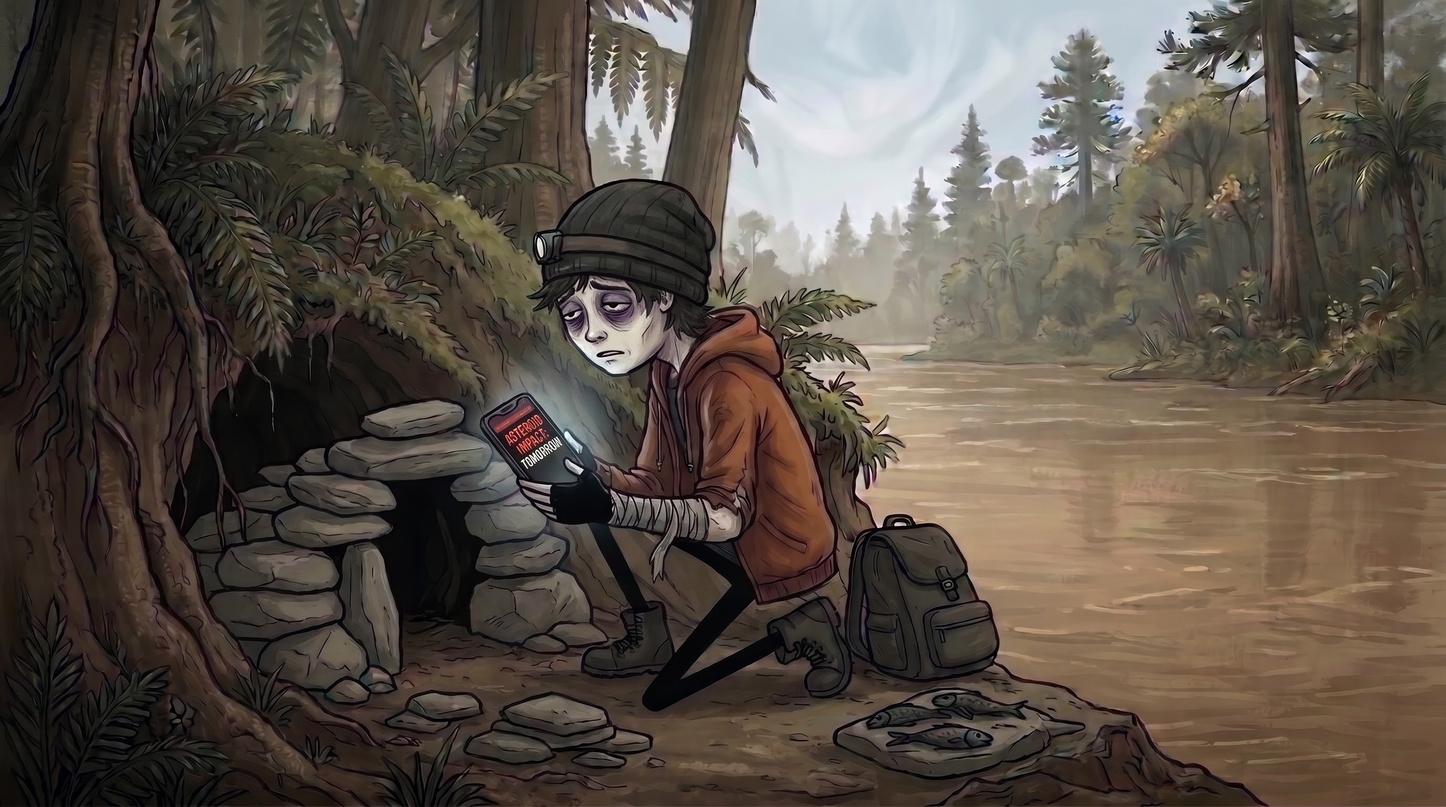
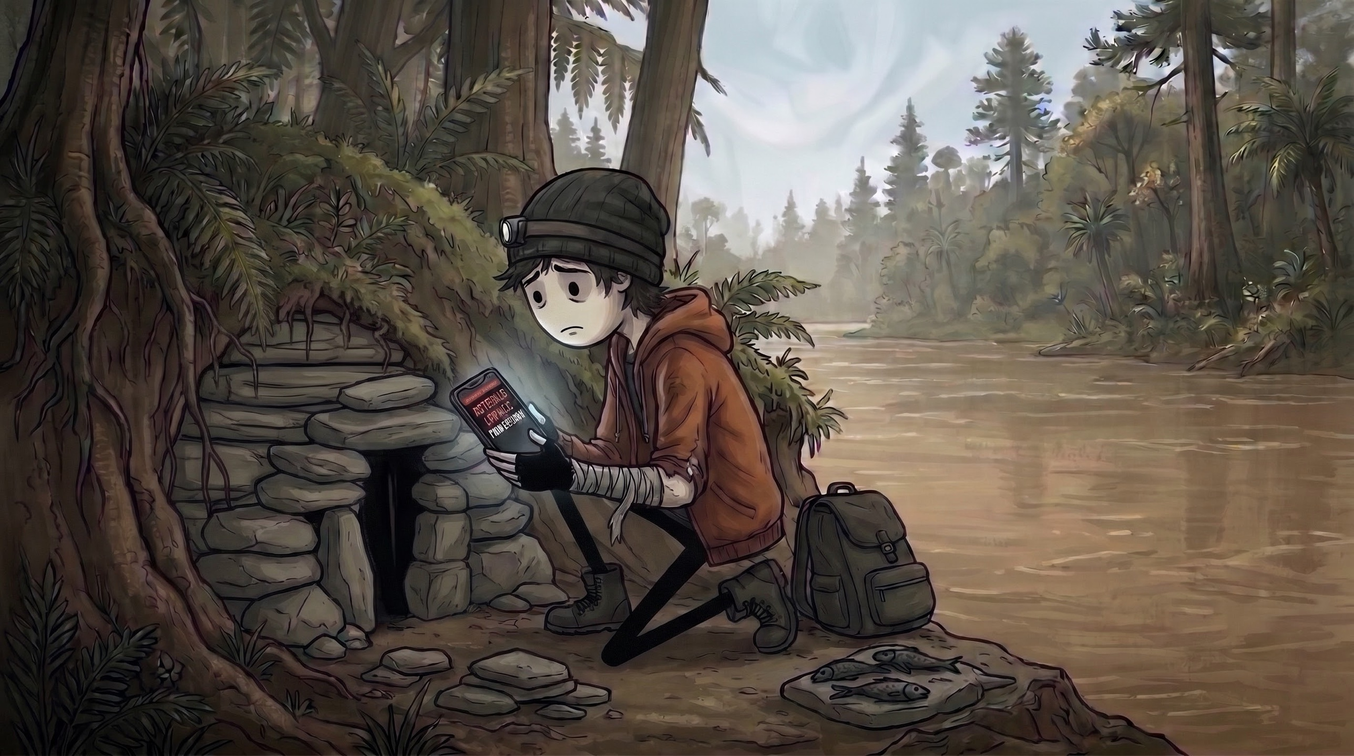
Dino long: all images complete (D9b fixed, D9d, light clip kept)
Claude-Session: https://claude.ai/code/session_01NtES8fcQpSP9FW8DWb2y14

diff --git a/CHANNEL.md b/CHANNEL.md
@@ -27,7 +27,7 @@
 - **رفرنسهای ثابت:** برگهی شخصیت `refs/C1-character-sheet-hair.jpg` · فندق `refs/R1-fandogh-sheet.jpg` · تیرکس با زخم سمت چپ پوزه `refs/R2-trex-scar.jpg` · شکارچی کوچک تا زانو `refs/R3-raptor-v2-scale.jpg` (v1 بزرگ بود، رد شد). عکس سبک روز = شات ۲۴ (D2a)، شب = شات ۱ (H1). · برگهی مکان لانه `refs/R4-burrow-sheet.jpg`
 - **قوانین پیوستگی:** لانه در دیوارهی رسی کنار همان رود گلآلود روز ۳ (D5b)، بالای خط سیل (D5c). روز ۶-۸ ورودی = سوراخ گرد خاکی به پهنای شانه؛ از روز ۹ با سنگ تا یک شکاف باریک تنگ میشود. تونل = راهروی تنگ سینهخیز + اتاقک کوچک انتهایی برای نشستن. تیرکس هرگز وارد نمیشود؛ شکارچی فقط سر و گردنش از سوراخ میآید. حداکثر ۳ رفرنس در Flow.
 - **بخش ۱ کامل است** (۲۷ عکس + کلیپها). فقط پوتین شبح در H1 در تدوین پاک میشود.
-- **بخش ۲ در جریان:** روز ۶ و ۷ ساخته شده، D8a تأیید شد، R4 ساخته شد (قاب سنگیاش باید به شکاف باریک ویرایش شود). منتظر: بقیهی روز ۸ و D6d و روز ۹ تا آخر. اصلاح دماغ در D7a/D6a/رفرنس شکارچی برای آخر کار ماند.
+- **همهی عکسها کامل شد (۲۰۲۶-۱۱-۰۸).** قدم بعد فقط با تأیید کاربر: نریشن، تدوین، رندر. در تدوین درست شود: پوتین شبح H1، ورودی باز در گوشهی کلیپ D10b، شلوار D10g، ثانیههای آخر کلیپهای D4b، D8c، D8e و D10c.
 - **بعد از عکسها:** نریشن با Brian (eleven_v4، فارسی)، تدوین در Remotion (`src/v02` نمونهی تست است)، رندر تکهای، تحویل با deliver.
 - **قانون زخم (از روز ۸ به بعد):** فقط ساعد راستِ پسر زخمی است. آستین راست از آرنج به پایین پاره شده و زیرش همان بازوی خطی مشکی با سه خراش قرمز دیده میشود. آستین چپ سالم است. دستها همیشه مشکی و سادهاند و صورت دماغ ندارد. از روز ۹ روی همان ساعد پارچهی خاکستری بسته شده است (مثل D9a).
 - **کتاب شخصیت کانال:** `research/character-bible.md` (برای همهی قسمتها). قانون چشم: گزینهی الف.
